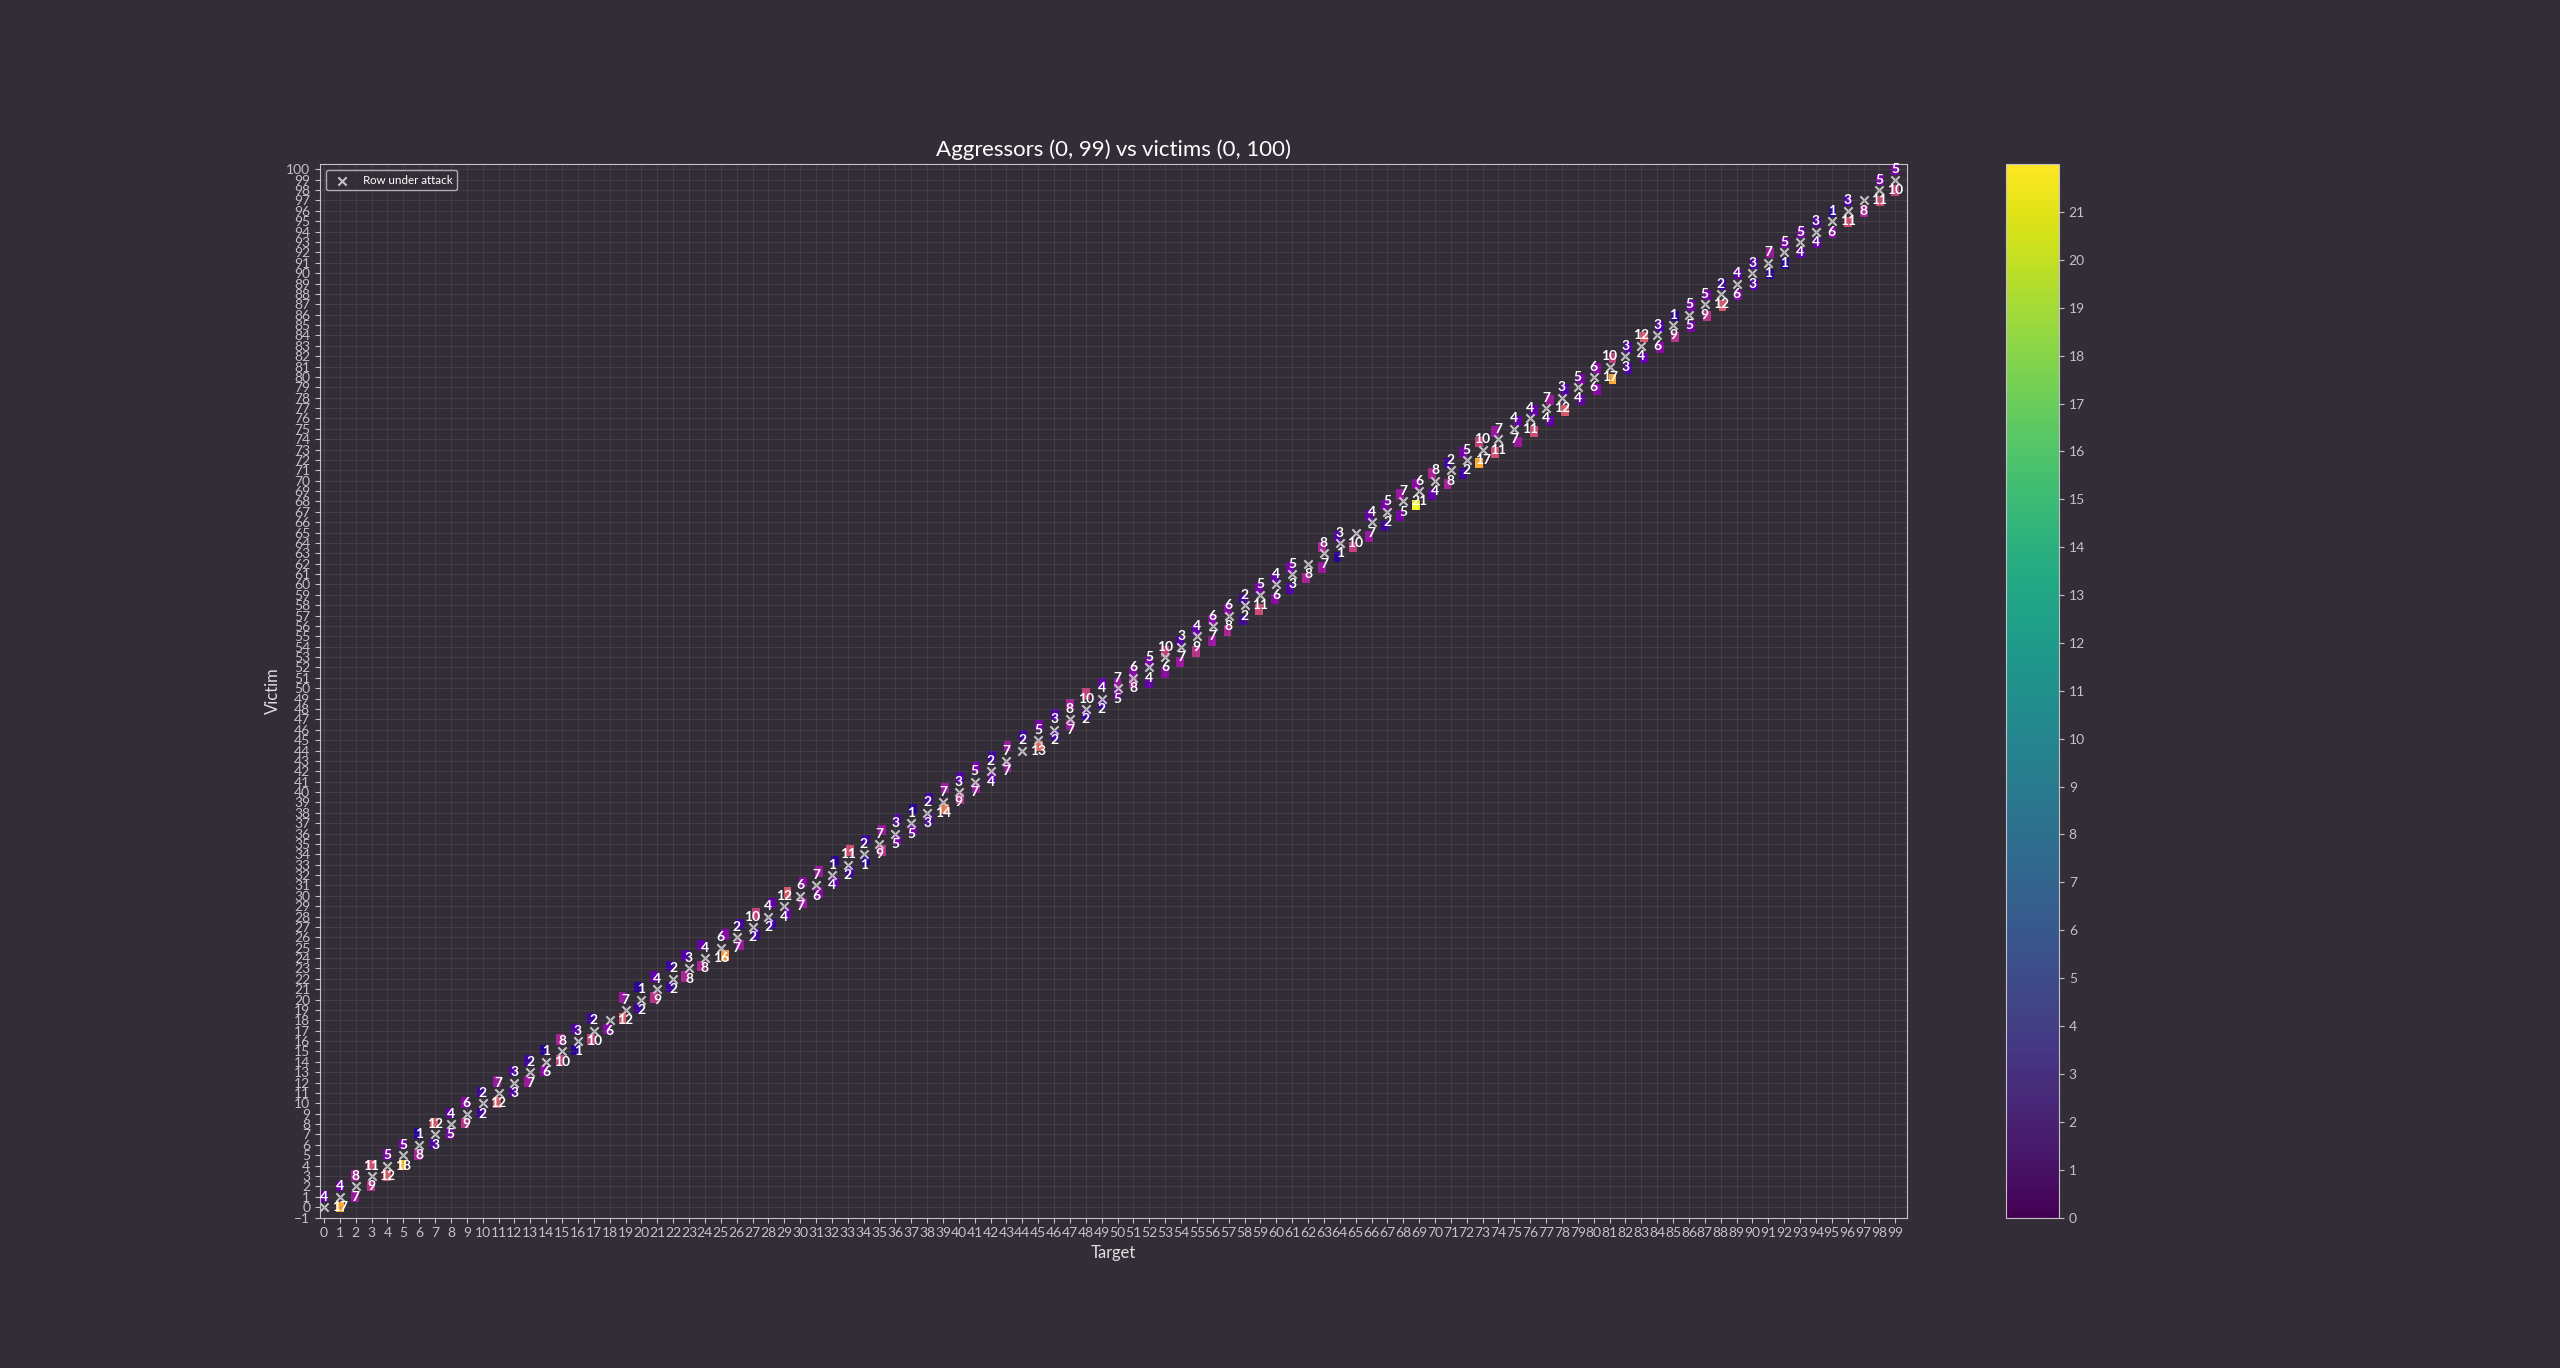
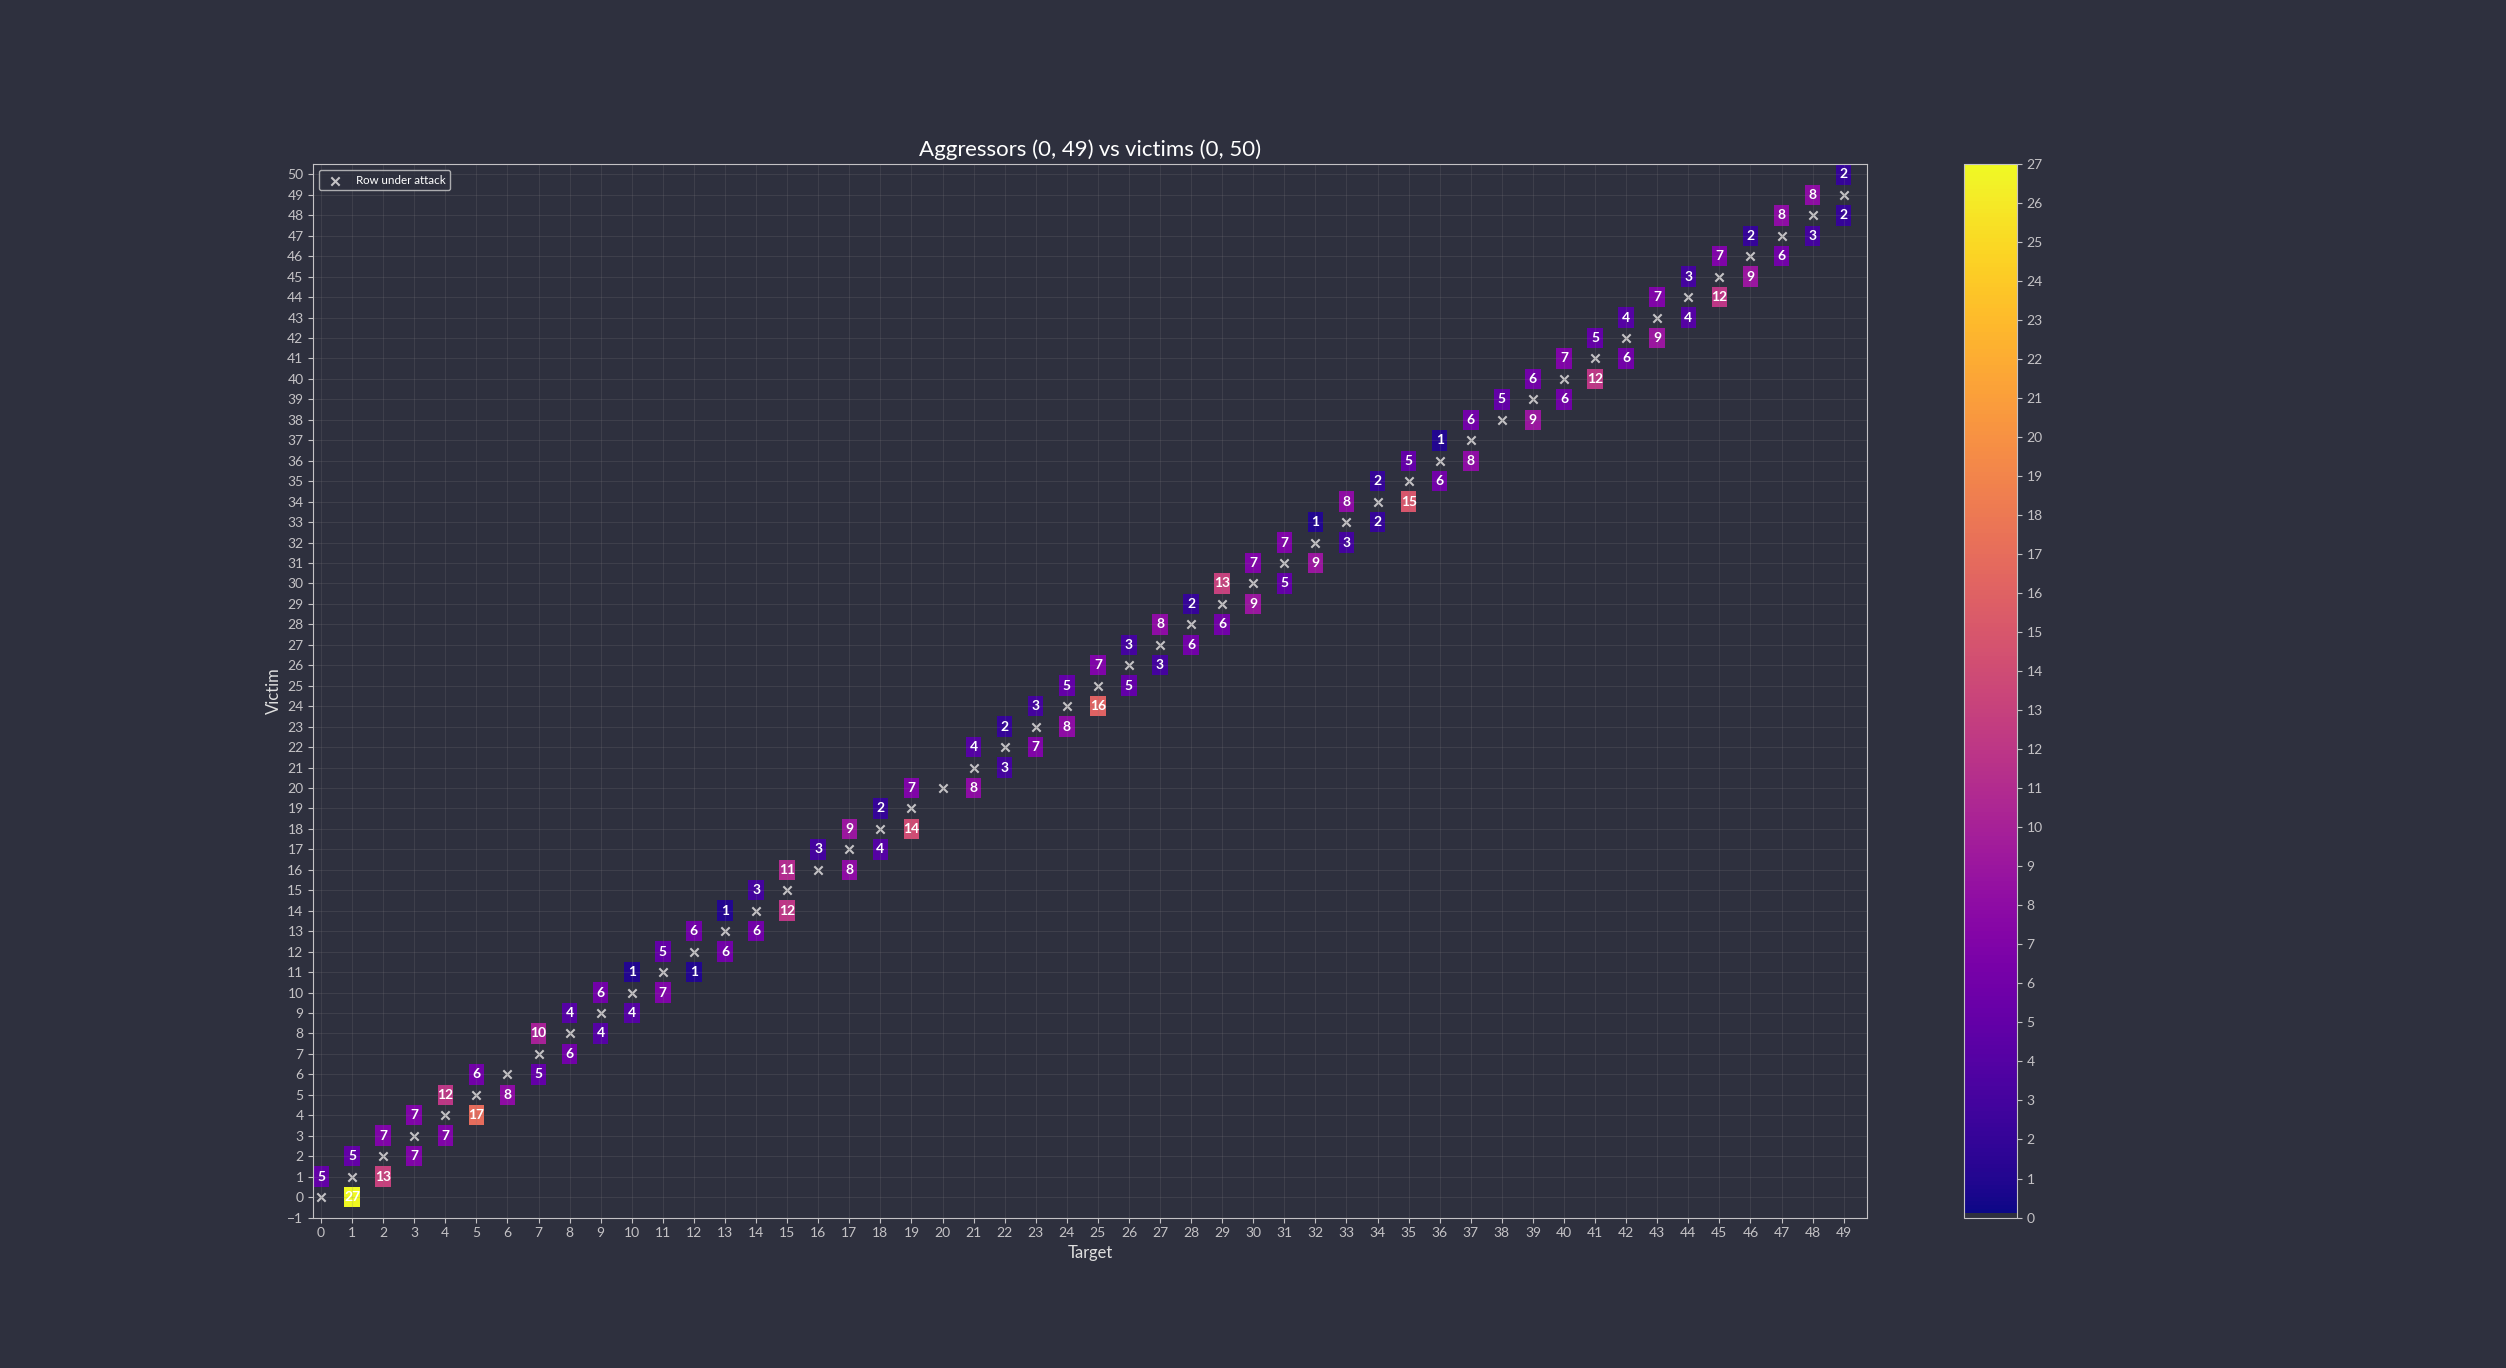
[#70739] Update figures

diff --git a/docs/source/visualization.md b/docs/source/visualization.md
@@ -38,7 +38,7 @@ It can generate two different types of graphs:
    The colors of the tiles indicate how many bitflips occurred for each victim.
 
    You can enable additional annotation with `--annotate bitflips` so that the number of occurred bitflips will be explicitly labeled on top of each victim tile.
-   {numref}`plot-annotation` presents a set of bitflips recorded while hammering rows `1-100` of `bank 0` in  `SK hynix HMCG84MEBRA112NBB`
+   {numref}`plot-annotation` presents a set of bitflips recorded while hammering rows `1-50` of `bank 0` in  `SK hynix HMCG84MEBRA112NBB`
  from off-the-shelf RDIMM DDR5 memory under test.
 
    :::{figure-md} plot-annotation
